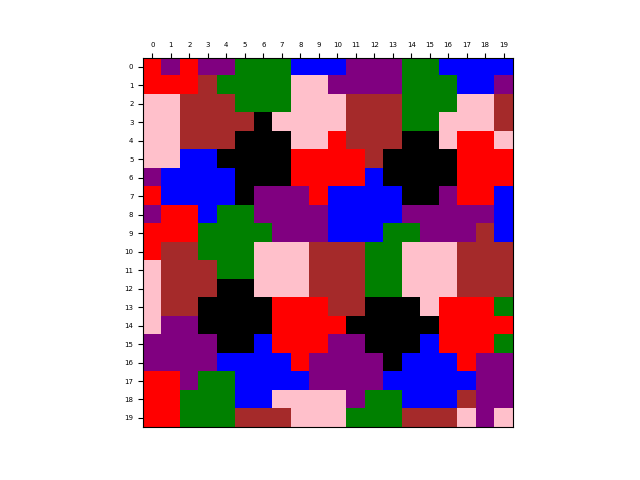
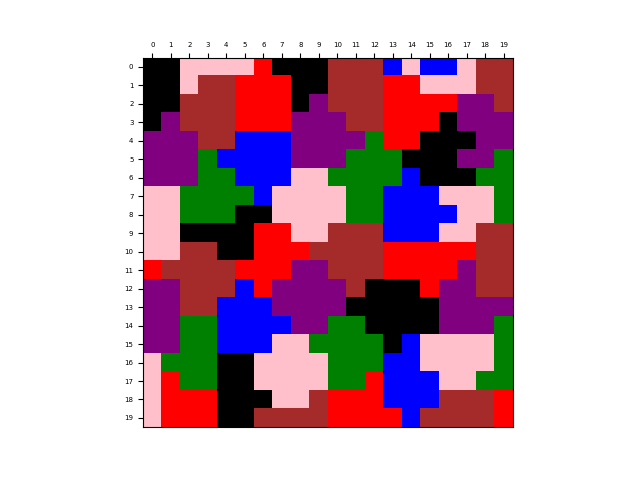
coded SAT solver

diff --git a/pairs_helper.py b/pairs_helper.py
@@ -1,11 +1,31 @@
 import math
+from enum import Enum
 
+# Format enum class which specifies which format the list of pairs data structure is returned as
+class Format(Enum):
+    LIST = 1
+    MATRIX = 2
+
+# adds a pair of adjacent pixels to the pairs data structure depending on format specified
+def add_pair(pairs, x1, y1, x2, y2, format):
+    if format == Format.LIST:
+        pairs.append(((x1, y1), (x2, y2)))
+    elif format == Format.MATRIX:
+        pairs[x1][y1].append((x2, y2))
+        pairs[x2][y2].append((x1, y1))
+        
 # Generates a list of pairs of pixels containing points a distance of 1 from each other
 # Input: s - length of side of grid of pixels
 #        n - number of pixels on each side of grid (nxn grid)
 #        wrapping - set to true if we want distances to wrap across edges of grid as if grid was tiled
-def list_of_pixel_pairs(s, n, wrapping):
-    pairs = [[[] for i in range(n)] for j in range(n)] # nxn array of lists of points distance 1 from each pixel
+#        list_format - set to true if you want the function to return 
+def list_of_pixel_pairs(s, n, wrapping, format):
+    pairs = None
+    if format == Format.LIST:
+        pairs = []
+    elif format == Format.MATRIX:
+        pairs = [[[] for i in range(n)] for j in range(n)] # nxn array of lists of points distance 1 from each pixel
+        
     pixel_length = float(s)/n # length of each pixel
   
     for i in range(0, int(math.ceil(float(n)/s + 1))):
@@ -29,18 +49,14 @@ def list_of_pixel_pairs(s, n, wrapping):
                 for x in range(n):
                     for y in range(n):
                         if wrapping:
-                            pairs[x][y].append(((x+i)%n, (y+j)%n))
-                            pairs[(x+i)%n][(y+j)%n].append((x, y))
+                            add_pair(pairs, x, y, (x+i)%n, (y+j)%n, format)
                             if i != 0 and j != 0:
-                                pairs[x][y].append(((x-i)%n, (y+j)%n))
-                                pairs[(x-i)%n][(y+j)%n].append((x, y))
+                                add_pair(pairs, x, y, (x-i)%n, (y+j)%n, format)
                         else:
                             if y + j < n:
                                 if x + i < n:
-                                    pairs[x][y].append((x+i, y+j))
-                                    pairs[x+i][y+j].append((x, y))
+                                    add_pair(pairs, x, y, x+i, y+j, format)
                                 if x - i >= 0 and i != 0 and j != 0:
-                                    pairs[x][y].append((x-i, y+j))
-                                    pairs[x-i][y+j].append((x, y))
+                                    add_pair(pairs, x, y, x-i, y+j, format)
                     
     return pairs

diff --git a/sat_solver.py b/sat_solver.py
@@ -1,0 +1,47 @@
+import pycosat
+import pairs_helper
+
+def pixel_color_to_int(p, k, N, K):
+    return (N*p[0] + p[1])*K + k + 1
+    
+def int_to_pixel_color(sat_var, N, K):
+    square = (sat_var - 1) / K
+    i = square / N
+    j = square % N
+    k = (sat_var - 1) % K
+    return (i, j), k
+    
+def number_of_variables(N, K):
+    return N*N*K
+
+def pairs_to_SAT(pairs, N, K):
+    cnf = []
+    for i in range(N):
+        for j in range(N):
+            clause = []
+            for k in range(K):
+                clause.append(pixel_color_to_int((i, j), k, N, K))
+            cnf.append(clause)
+    
+    for pair in pairs:
+        for k in range(K):
+            cnf.append([-1*pixel_color_to_int(pair[0], k, N, K), -1*pixel_color_to_int(pair[1], k, N, K)])
+    
+    return cnf
+	
+def solution_to_coloring(solution, N, K):
+    coloring = [[0 for j in range(N)] for i in range(N)]
+    num_var = number_of_variables(N, K)
+    for sat_var in range(num_var):
+        if solution[sat_var] > 0:
+            pixel, k = int_to_pixel_color(sat_var + 1, N, K)
+            coloring[pixel[0]][pixel[1]] = k
+    return coloring
+
+def SAT_solve(S, N, K, wrapping):
+    pairs = pairs_helper.list_of_pixel_pairs(S, N, wrapping, pairs_helper.Format.LIST)
+    cnf = pairs_to_SAT(pairs, N, K)
+    solution = pycosat.solve(cnf)
+    if solution == "UNSAT":
+        return solution
+    return solution_to_coloring(solution, N, K)

diff --git a/main_sim.py b/main_sim.py
@@ -8,7 +8,7 @@ N = 20 # Number of pixels on one side of square
 K = 7 # Number of colors
 WRAPPING = False # Whether or not we wrap distances across edges of square when finding pairs of pixels unit distaqnce from each other
 INIT_TEMP = 10 # Initial temperature for the simulated annealing algorithm
-COOLING_RATE = 0.15 # Cooling rate for the simulated annealing algorithm. Each iteration, T is multiplied by (1-cooling_rate);
+COOLING_RATE = 0.15 # Cooling rate for the simulated annealing algorithm. Each iteration, T is multiplied by (1-cooling_rate)
 
 
 
@@ -19,11 +19,11 @@ coloring, cost = simulated_annealing.simulated_annealing(S, N, K, WRAPPING, INIT
 wrappingString = 'False'
 if WRAPPING:
     wrappingString = 'True'
-name = 's' + str(S) + '_n' + str(N) + '_k' + str(K) + '_wrapping' + wrappingString + '_temp' + str(INIT_TEMP) + '_cr' + str(int(COOLING_RATE*100)) + '_cost' + str(cost)
+name = 's' + (str(S)).replace('.',',') + '_n' + str(N) + '_k' + str(K) + '_wrapping' + wrappingString + '_temp' + str(INIT_TEMP) + '_cr' + str(int(COOLING_RATE*100)) + '_cost' + str(cost)
 
-numpy.save(name, coloring)
+#numpy.save(name, coloring)
 
 
 
 # save coloring as an image
-#printColourGrid.create_coloring(coloring, N, K, name)
+printColourGrid.create_coloring(coloring, N, K, name)

diff --git a/main_SAT.py b/main_SAT.py
@@ -1,0 +1,31 @@
+import sat_solver
+import printColourGrid
+import numpy
+
+# CONSTANTS
+S = 4 # Side length of nxn square
+N = 50 # Number of pixels on one side of square
+K = 7 # Number of colors
+WRAPPING = False # Whether or not we wrap distances across edges of square when finding pairs of pixels unit distaqnce from each other
+
+
+coloring = sat_solver.SAT_solve(S, N, K, WRAPPING)
+if coloring == "UNSAT":
+    print "This coloring problem is unsatisfiable."
+else:
+    printColourGrid.create_coloring(coloring, N, K)
+
+"""
+# create image file name
+wrappingString = 'False'
+if WRAPPING:
+    wrappingString = 'True'
+name = 's' + str(S) + '_n' + str(N) + '_k' + str(K) + '_wrapping' + wrappingString + '_temp' + str(INIT_TEMP) + '_cr' + str(int(COOLING_RATE*100)) + '_cost' + str(cost)
+
+numpy.save(name, coloring)
+
+
+
+# save coloring as an image
+#printColourGrid.create_coloring(coloring, N, K, name)
+"""

diff --git a/simulated_annealing.py b/simulated_annealing.py
@@ -53,7 +53,7 @@ def change_pixel(assignment, pixel, color):
 # length_initial - number of repetitions for temperature T_initial
 # length_increase - the number of repetitions for each temperature is multiplied by length_increase each time we decrease the temperature. So if length_increase is higher, the algorithm will take longer but try more options.
 def simulated_annealing(s, n, k, wrapping=False, T_initial=10, cooling_rate=0.15, final_temp=0.05, length_initial=100, length_increase=1.2):
-    pairs = pairs_helper.list_of_pixel_pairs(s, n, wrapping)
+    pairs = pairs_helper.list_of_pixel_pairs(s, n, wrapping, pairs_helper.Format.MATRIX)
     current_assignment = random_assignment(k, n)
     current_cost = total_cost(pairs, current_assignment, n)
     T = T_initial
